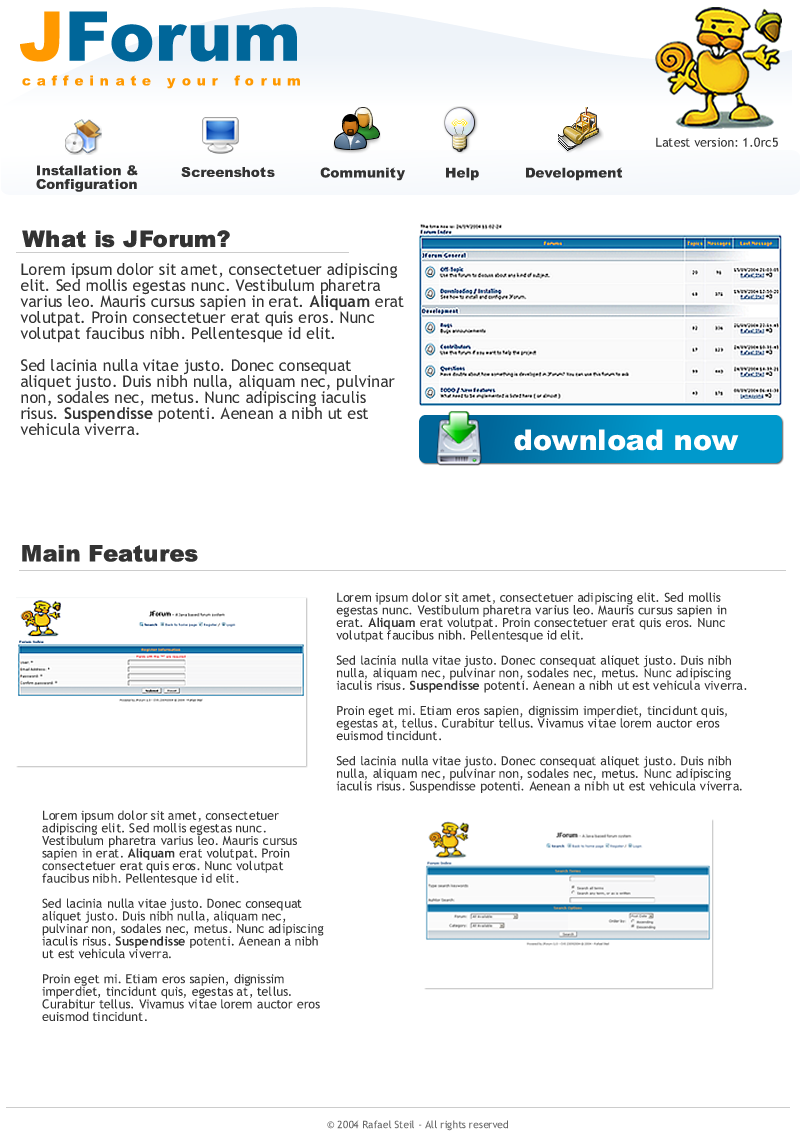
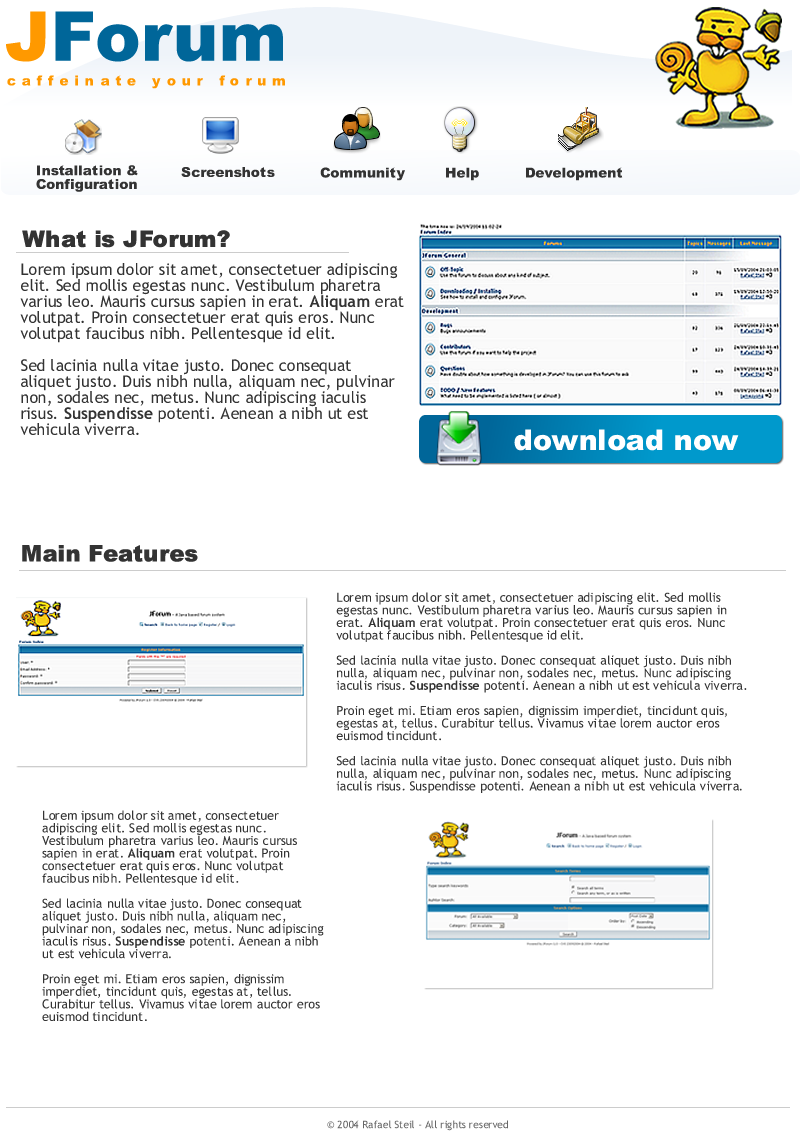
*** empty log message ***

Changed region(s): [[0.0, 0.0, 0.375, 0.0919], [0.8438, 0.1225, 0.9062, 0.1531]]

diff --git a/www/website/site.htm b/www/website/site.htm
@@ -1,49 +1,61 @@
 <html>
+<head>
+<title>JForum - Strong Caffeine to your Forum</title>
+<style type="text/css">
+.menu_link {
+	font-size: 11px; font-family: 'arial, verdana';
+}
+</style>
+</head>
 <body>
 
-<table background="barra_superior.png" width="792" height="140" align="center" border="0">
+<table background="top_bar.jpg" width="792" height="140" align="center" border="0">
 	<tr>
 		<td width="40">&nbsp;</td>
 
 		<td valign="bottom" align="center" width="100">
-		<img src="install.png">
+		<img src="install.gif">
 		</td>
 
 		<td width="40">&nbsp;</td>
 
 		<td valign="bottom" align="center" width="100">
-		<img src="ss.png">
+		<img src="ss.gif">
 		</td>
 
 		<td width="40">&nbsp;</td>
 
 		<td valign="bottom" align="center" width="80">
-		<img src="community.png">
+		<img src="community.gif">
 		</td>
 
 		<td width="40">&nbsp;</td>
 
 		<td valign="bottom" align="center" width="100">
-		<img src="help.png">
+		<img src="help.gif">
 		</td>
 
 		<td width="40">&nbsp;</td>
 
 		<td valign="bottom" align="center" width="100">
-		<img src="development.png">
+		<img src="development.gif">
 		</td>
 
-		<td width="200">&nbsp;</td>
+		<td width="200" valign="bottom" align="right">
+		<font style="color: #006699; font-family: verdana; font-size: 11px;">
+		<b>Latest Version: 1.0rc5</b>
+		</font>
+		</td>
 	</tr>
 </table>
 
-<table width="792" align="center" border="0" background="menu_bar.png">
+<table width="792" align="center" border="0" background="menu_bar.gif">
 	<tr>
 		<td width="40">&nbsp;</td>
 		<td width="100" align="center"><font style="font-size: 11px; font-family: 'arial';"><b>Installation & Configuration</b></font></td>
 
 		<td width="20">&nbsp;</td>
-		<td width="90" align="center"><font style="font-size: 11px; font-family: 'arial';"><b>Screenshots</b></font></td>
+		<td width="90" align="right"><font style="font-size: 11px; font-family: 'arial';"><b>Screenshots</b></font></td>
 
 		<td width="40">&nbsp;</td>
 		<td width="80" align="center"><font style="font-size: 11px; font-family: 'arial';"><b>Community</b></font></td>
@@ -54,7 +66,7 @@
 		<td width="40">&nbsp;</td>
 		<td width="100" align="center"><font style="font-size: 11px; font-family: 'arial';"><b>Development</b></font></td>
 
-		<td width="200">&nbsp;</td>
+		<td width="200" valign="top">&nbsp;</td>
 	</tr>
 </table>
 
@@ -64,10 +76,58 @@
 	</tr>
 
 	<tr>
-		<td width="50%" valign="top">aaaaa</td>
+		<td width="50%" valign="top">
+			<font style="font-family: verdana; font-size: 22px;"><b>What is JForum?</b></font><br/>
+			<img src="h_bar.gif"><br>
+			<font style="font-family: verdana; font-size: 12px;">
+			<p>
+			JForum is an extremely powerful and fast discussion board system, built using the Java<sup>tm</sup> Technology. <br/>
+			Aside many other features, it provides a fully customizable interface, really fast and robust forum engine, Friendly
+			URLs, easy to use Administrative Panel, unlimited forums and users, along with a Permission Control System that allow
+			fine tunning of the forum's settings. 
+			</p>
+
+			<p>
+			If you or your company are searching for a serious Forum product, JForum is the right choice. 
+			</p>
+			</font>
+		</td>
 		<td width="50%" align="right">
-			<img src="ss_main.png"><br/>
-			<img src="download_now.png">
+			<img src="ss_main.jpg"><br/>
+			<img src="download_now.jpg">
+		</td>
+	</tr>
+</table>
+
+<table width="792" align="center" border="0">
+	<tr>
+		<td colspan="2">
+		<font style="font-family: verdana; font-size: 22px;"><b>Key Features</b></font><br/>
+		<img src="h_bar.gif" width="792" height="2">
+		</td>
+	</tr>
+
+	<tr>
+		<td width="50%" valign="jpg" style="font-family: verdana; font-size: 12px;">
+		<p><img src="language.jpg" align="middle">&nbsp;Multi-language support</p>
+		<p><img src="graphics.jpg" align="middle">&nbsp;Customizable user-interface</p>
+		<p><img src="padlock.jpg" align="middle">&nbsp;Secure and higly customizable Permission Control</p>
+		</td>
+
+		<td width="50%" valign="top" style="font-family: verdana; font-size: 12px;">
+		<p><img src="db.jpg" align="middle">&nbsp;Multi database support</p>
+		<p><img src="word.jpg" align="middle">&nbsp;Unlimited foruns and topics</p>
+		<p><img src="opensource.jpg" align="middle">&nbsp;Open Source</p>
+		<td>
+	</tr>
+</table>
+
+<table width="792" align="center" border="0">
+	<tr>
+		<td align="center">
+		<font style="font-family: verdana; font-size: 10px; color: #006699;">
+		Copyright &copy; 2004 - Rafael Steil / The JForum Team
+		</font>
 		</td>
 	</tr>
 </table>
